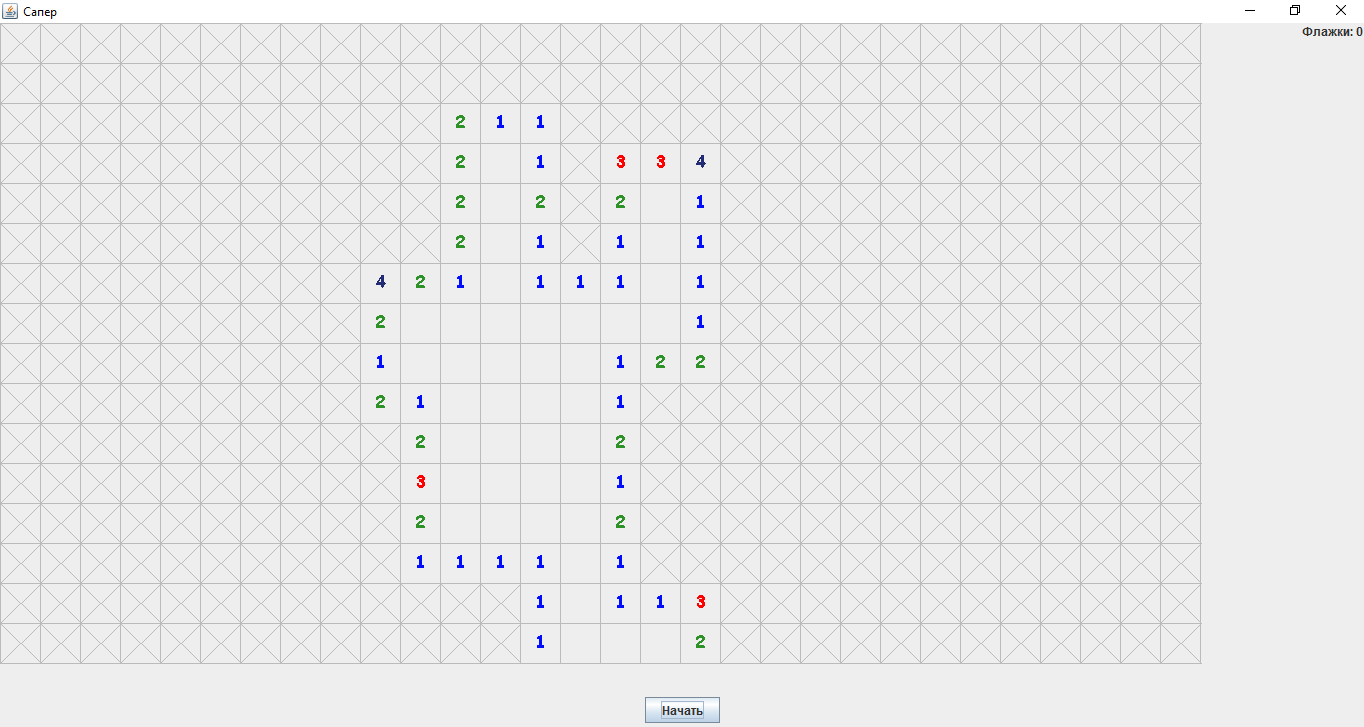
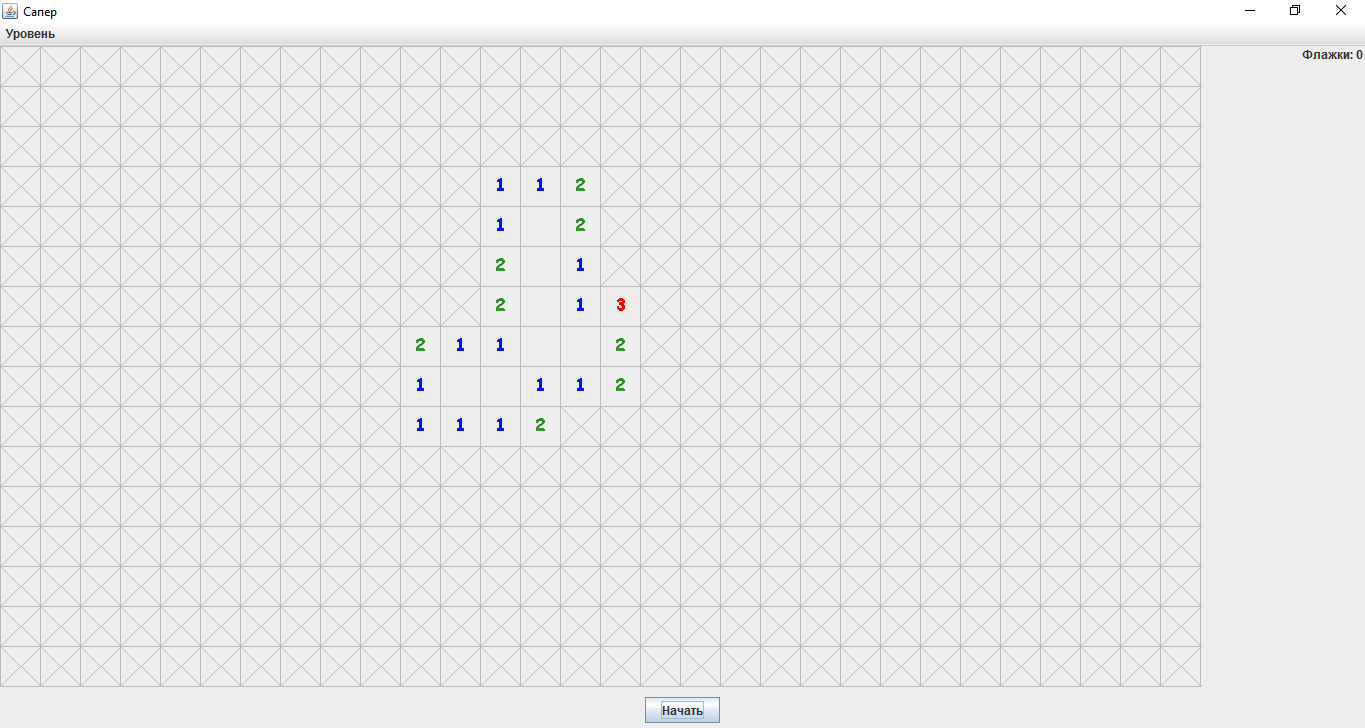
New screenshots

Changed region(s): [[0.0, 0.0303, 0.893, 0.9986], [0.9545, 0.0303, 1.0, 0.0908]]

diff --git a/Minesweeper/README.md b/Minesweeper/README.md
@@ -1,12 +1,14 @@
 Игра "Сапёр"
-===================================
+============
 
 Графическая версия игры
------------------------------------
-___________________________________
+-----------------------
+_______________________
 
 Легкий уровень (9x9)
------------------------------------
+--------------------
+
+![CC0](https://github.com/Panchenko-Vlad/java-lessons/blob/master/Minesweeper/src/Screenshots/selectEasy.png)
 
 ![CC0](https://github.com/Panchenko-Vlad/java-lessons/blob/master/Minesweeper/src/Screenshots/easy1.png)
 
@@ -23,18 +25,18 @@ ___________________________________
 ![CC0](https://github.com/Panchenko-Vlad/java-lessons/blob/master/Minesweeper/src/Screenshots/easy5.png)
 
 Средний уровень (16x16)
------------------------------------
+-----------------------
 
 ![CC0](https://github.com/Panchenko-Vlad/java-lessons/blob/master/Minesweeper/src/Screenshots/medium1.png)
 
 Сложный уровень (30x16)
------------------------------------
+-----------------------
 
 ![CC0](https://github.com/Panchenko-Vlad/java-lessons/blob/master/Minesweeper/src/Screenshots/expert1.png)
 
 Консольная версия игры
------------------------------------
-___________________________________
+----------------------
+______________________
 
 Выбор уровня:
 
